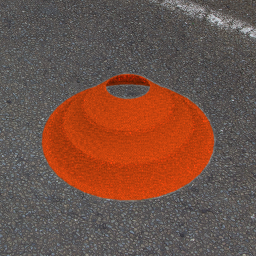
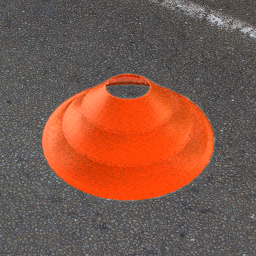
Refined cone material, adjusted weighting of mask smoothing filter

Changed region(s): [[0.1562, 0.2812, 0.8438, 0.7812]]

diff --git a/pbrt-v3/src/core/api.cpp b/pbrt-v3/src/core/api.cpp
@@ -1515,7 +1515,11 @@ void smoothenMask(int xRes, int yRes, float* printMask, float* smoothenedMask)
 	}
 
 	// Apply filter mask
-	float *filterMask = new float[9]{ 1.0f / 9.0f, 1.0f / 9.0f, 1.0f / 9.0f, 1.0f / 9.0f, 1.0f / 9.0f, 1.0f / 9.0f, 1.0f / 9.0f, 1.0f / 9.0f, 1.0f / 9.0f };
+	float *filterMask = new float[9] {
+            0.075f, 0.075f, 0.075f,
+            0.075f, 0.4f, 0.075f,
+            0.075f, 0.075f, 0.075f
+    };
 	for(int i = 0; i < yRes; i++)
 	{
 		for (int j = 0; j < xRes; j++)
